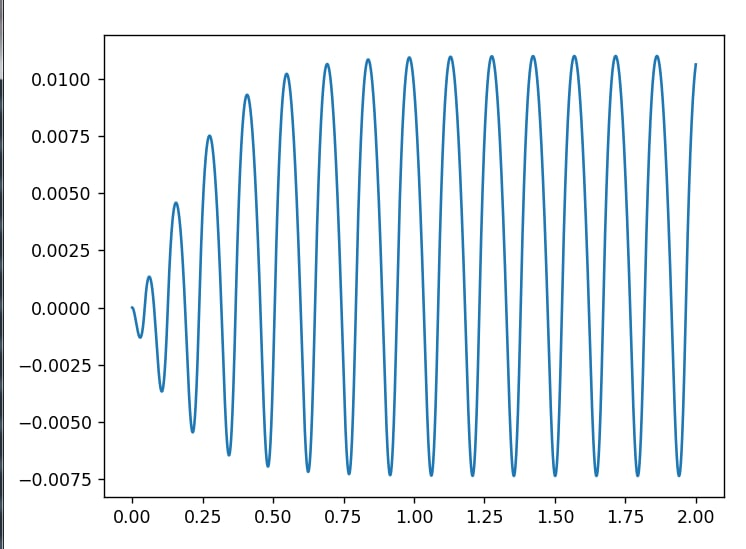
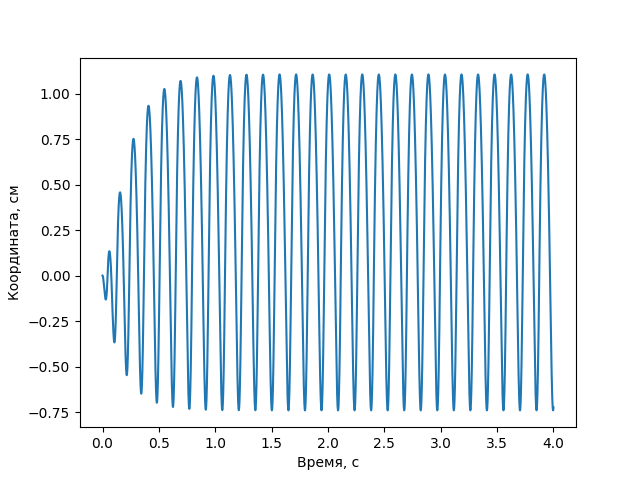
Fixes

Changed region(s): [[0.0, 0.0, 1.0, 1.0]]

diff --git a/pain/sim.py b/pain/sim.py
@@ -11,10 +11,10 @@ g = 9.8
 R = 8.31
 T_0 = 300
 
-Φ = 0.006 # моль/с #?
-α = 0.03 #?
-β_c = 2 #?
-β_v = 0
+Φ = 0.01 # моль/с #?
+α = 0.02 #?
+β_c = 0 #?
+β_v = 0 #?
 dt = 0.00001
 
 γ = 7/5
@@ -49,8 +49,10 @@ def count_cross(arr, c):
     arr_n = arr - c
     return ((arr_n[:-1] * arr_n[1:]) < 0).sum()
 
-print(count_cross(np.array(xs), 0)/(len(xs)*dt)/2)
-print((max(xs) - min(xs))/2*100) 
+print('ν:', count_cross(np.array(xs), 0)/(len(xs)*dt)/2)
+print('A:', (max(xs) - min(xs))/2*100) 
 
 plt.plot(np.arange(len(xs))*dt, np.array(xs)*100)
+plt.xlabel("Время, с")
+plt.ylabel("Координата, см")
 plt.show()

diff --git a/pain/src.md b/pain/src.md
@@ -87,20 +87,20 @@ $$
 
 Для воздуха:
 
-| Число прерываний | Время измерения, с | Период колебания, с |
-| ---------------- | ------------------ | ------------------- |
-| 700              | 126                | 0.360               |
-| 3290             | 604                | 0.367               |
-| 2450             | 444                | 0.362               |
+| Число прерываний | Время измерения, с | Частота колебания, Гц | Период, с |
+| ---------------- | ------------------ | --------------------- | --------- |
+| 700              | 126                | 2.78                  | 0.360     |
+| 3290             | 604                | 2.72                  | 0.367     |
+| 2450             | 444                | 2.76                  | 0.362     |
 
 Таким образом, $T = 0.363 ± 0.003$
 
 Для углекислого газа:
 
-| Число прерываний | Время измерения, с | Период колебания, с |
-| ---------------- | ------------------ | ------------------- |
-| 1300             | 270                | 0.42                |
-| 3430             | 631                | 0.37                |
+| Число прерываний | Время измерения, с |Частота колебания, Гц| Период колебания, с |
+| ---------------- | ------------------ | ---- | ------------------- |
+| 1300             | 270                | 2.38 | 0.42                |
+| 3430             | 631                | 2.70 | 0.37                |
 
 Видно, что результаты получились слишком сильно разбросанными, чтобы можно было сделать определенный вывод. Практически наверняка это вызвано тем, что измерение времени имеет большую погрешность, вызванную медленной человеской реакцией. Поэтому мы решили провести повторное измерение, в котором фиксировали время каждые 100 прерываний — это позволяет как увидеть "плохие" точки, так и скомпенсировать погрешность количеством.
 
@@ -133,7 +133,7 @@ i = \frac{2}{γ-1}=\frac{2}{1.32 - 1} = 6.25
 $$
 Должно было получиться примерно 5 (степень свободы двухатомного газа), но, видимо, в установке есть какой-то неучтенный фактор.
 
-Мы наблюдали, что на малых амлпитудах колебания визуально далеки от гармонических ("вверх" пробка ползет сильно медленнее, чем падает "вниз"), поэтому предположили, что методика эксперимента и подведенная теория не до конца корректна. Мы решили провести дополнительные измерения, которые показали бы, что колебания не являются свободными и могут зависеть от напора подаваемого газа.
+Мы наблюдали, что на малых амплитудах колебания визуально далеки от гармонических ("вверх" пробка ползет сильно медленнее, чем падает "вниз"), поэтому предположили, что методика эксперимента и подведенная теория не до конца корректна. Мы решили провести дополнительные измерения, которые показали бы, что колебания не являются свободными и могут зависеть от напора подаваемого газа.
 
 ## Дополнительные измерения
 
@@ -167,7 +167,7 @@ $$
 
 В нашей модели будем считать, что по трубке подводится постоянное количество нового газа $Φ$ (что, конечно, будет не совсем правдой, но гораздо лучше приближения "подаваемое давление постоянное" — в таком случае у нас пропадают сами колебания). Тогда *количество газа* $ν$ в колбе описывается дифференциальным уравнением ($x$ — отклонение пробки от дырки):
 $$
-\ddot ν = Φ - 
+\dot ν = Φ - 
 \begin{cases}
 α(p - p_a)&x≥0\\0&x<0
 \end{cases}
@@ -194,20 +194,20 @@ $$
 $$
 \ddot x =-g+\frac{(p-p_a)·S}{m} - β\ \dot x
 $$
-, то колебания стабилизируется, эффект остается, но не меняет знак:
+Колебания стабилизируются, эффект остается, но не меняет знак:
 
 {subfigures:
-![Изменение частоты при разных амлитудах при вязком трении](){width=0.45}
-![Амплитуда ~2 см](images_src/comp1.png)
-![Амплитуда ~1 см](images_src/comp2.png)
+![Изменение частоты при разных амплитудах при вязком трении](){width=0.45}
+![Амплитуда ~1.5 см, частота 6.1 Гц](images_src/comp1.png)
+![Амплитуда ~1 см, частота 7.0 Гц](images_src/comp2.png)
 }
 
 Однако, если на малых колебаниях действует не вязкое трение, а сухое, т.е. $\ddot x$ уменьшается на $β \operatorname{sign}(\dot x)$, модель начинает *уменьшать* период с увеличением амплитуды, и давать более близкие к наблюдаемым значений частот (~ 5 Гц по сравнению):
 
 {subfigures:
 ![Изменение частоты при разных амплитудах при сухом трении](){width=0.45}
-![Амплитуда ~15 см](images_src/comp_c1.png)  
-![Амплитуда ~2 см](images_src/comp_c2.png)
+![Амплитуда ~3.5 см, частота 4.9 Гц](images_src/comp_c1.png)  
+![Амплитуда ~1.5 см, частота 6.1 Гц](images_src/comp_c2.png)
 }
 
 Таким образом, вполне может быть, что на наблюдаемых малых колебаниях трение работает примерно как сухое, и уже на больших амплитудах и, соответственно, скоростях, начинают играть важную роль и вязкое трение. В таком случае зависимость частоты от амплитуды будет похожа на "колокол" (увеличивается в начале, уменьшается после какого-то пикового значения), но его "вторую часть" мы не можем наблюдать из-за ограниченной длины трубки.
@@ -216,4 +216,16 @@ $$
 
 ## Выводы
 
-Как и следовало ожидать, показатель адиабаты для обоих газов, ведущих себя как двухатомные, практически совпало ($χ≈1.32$). Оно не совпало с показателем адиабаты идеального двухатомного газа. Мы предположили, что расхождение происходит из-за того, что систему некорректно рассматривать как систему со свободными гармоническими колебаниями. Измерения показали, что частота колебаний существенно завит от амплитуды (наблюдалась разница около 40%). Мы построили более "подробную" модель для описания изменений частоты. Тем не менее, правильных количественных предсказаний от модели добиться не удалось из-за неизвестных параметров системы, неучтенных эффектов малых колебаний и, возможно, грубых предположений о подаваемом по трубке газе.
+Как и следовало ожидать, показатель адиабаты для обоих газов, ведущих себя как двухатомные, практически совпало ($χ≈1.32$). Оно не совпало с показателем адиабаты идеального двухатомного газа.
+
+В процессе работы было испробовано три различных метода измерения частоты пробки:
+
+- Подсчет числа прерываний счетчика за большой промежуток времени (~ 10 минут) — метод оказался относительно неточным, так как за такой большой промежуток времени возможны моменты некорректной работы, которые невозможно "отловить". Разброс результатов измерений составил порядка 2%.
+- Ручное измерения времени достижения пиков за тот же большой промежуток времени. Каждые n колебаний (в нашем случае n = 10) в секундомере делаются отметки, которые потом аппроксимируются прямой. Этот метод позволяет уменьшить *случайную* погрешность до ~ 0.3%.
+- Автоматическое снятие периода с видео. Если бы не использование специального программного обеспечения и самописных скриптов, этот способ был бы просто предыдущим, перенесенным на снятие времени с видео. Однако нам удалось автоматизировать эту работу, получив адекватные графики колебаний. Понятно, что этот метод не должен уступать в точности предыдущему (хотя полноценная оценка точности не проводилась), однако он на порядок проще и быстрее предыдущего, при условии, что все программные компоненты уже имеются.
+
+Однако погоня за точностью в этом эксперименте оказалась скорее избыточной, так как результаты заметно расходились с предсказываемыми теорией, несмотря на последовательное повышение точности измерений. 
+
+Мы предположили, что расхождение происходит из-за того, что систему некорректно рассматривать как систему со свободными гармоническими колебаниями. И действительно, измерения показали, что частота колебаний существенно завит от амплитуды (наблюдалась разница около 40%).
+
+Наконец, мы построили более "подробную" модель для описания изменений частоты. Тем не менее, правильных количественных предсказаний от модели добиться не удалось из-за неизвестных параметров системы, неучтенных эффектов малых колебаний и, возможно, грубых предположений о подаваемом по трубке газе.
